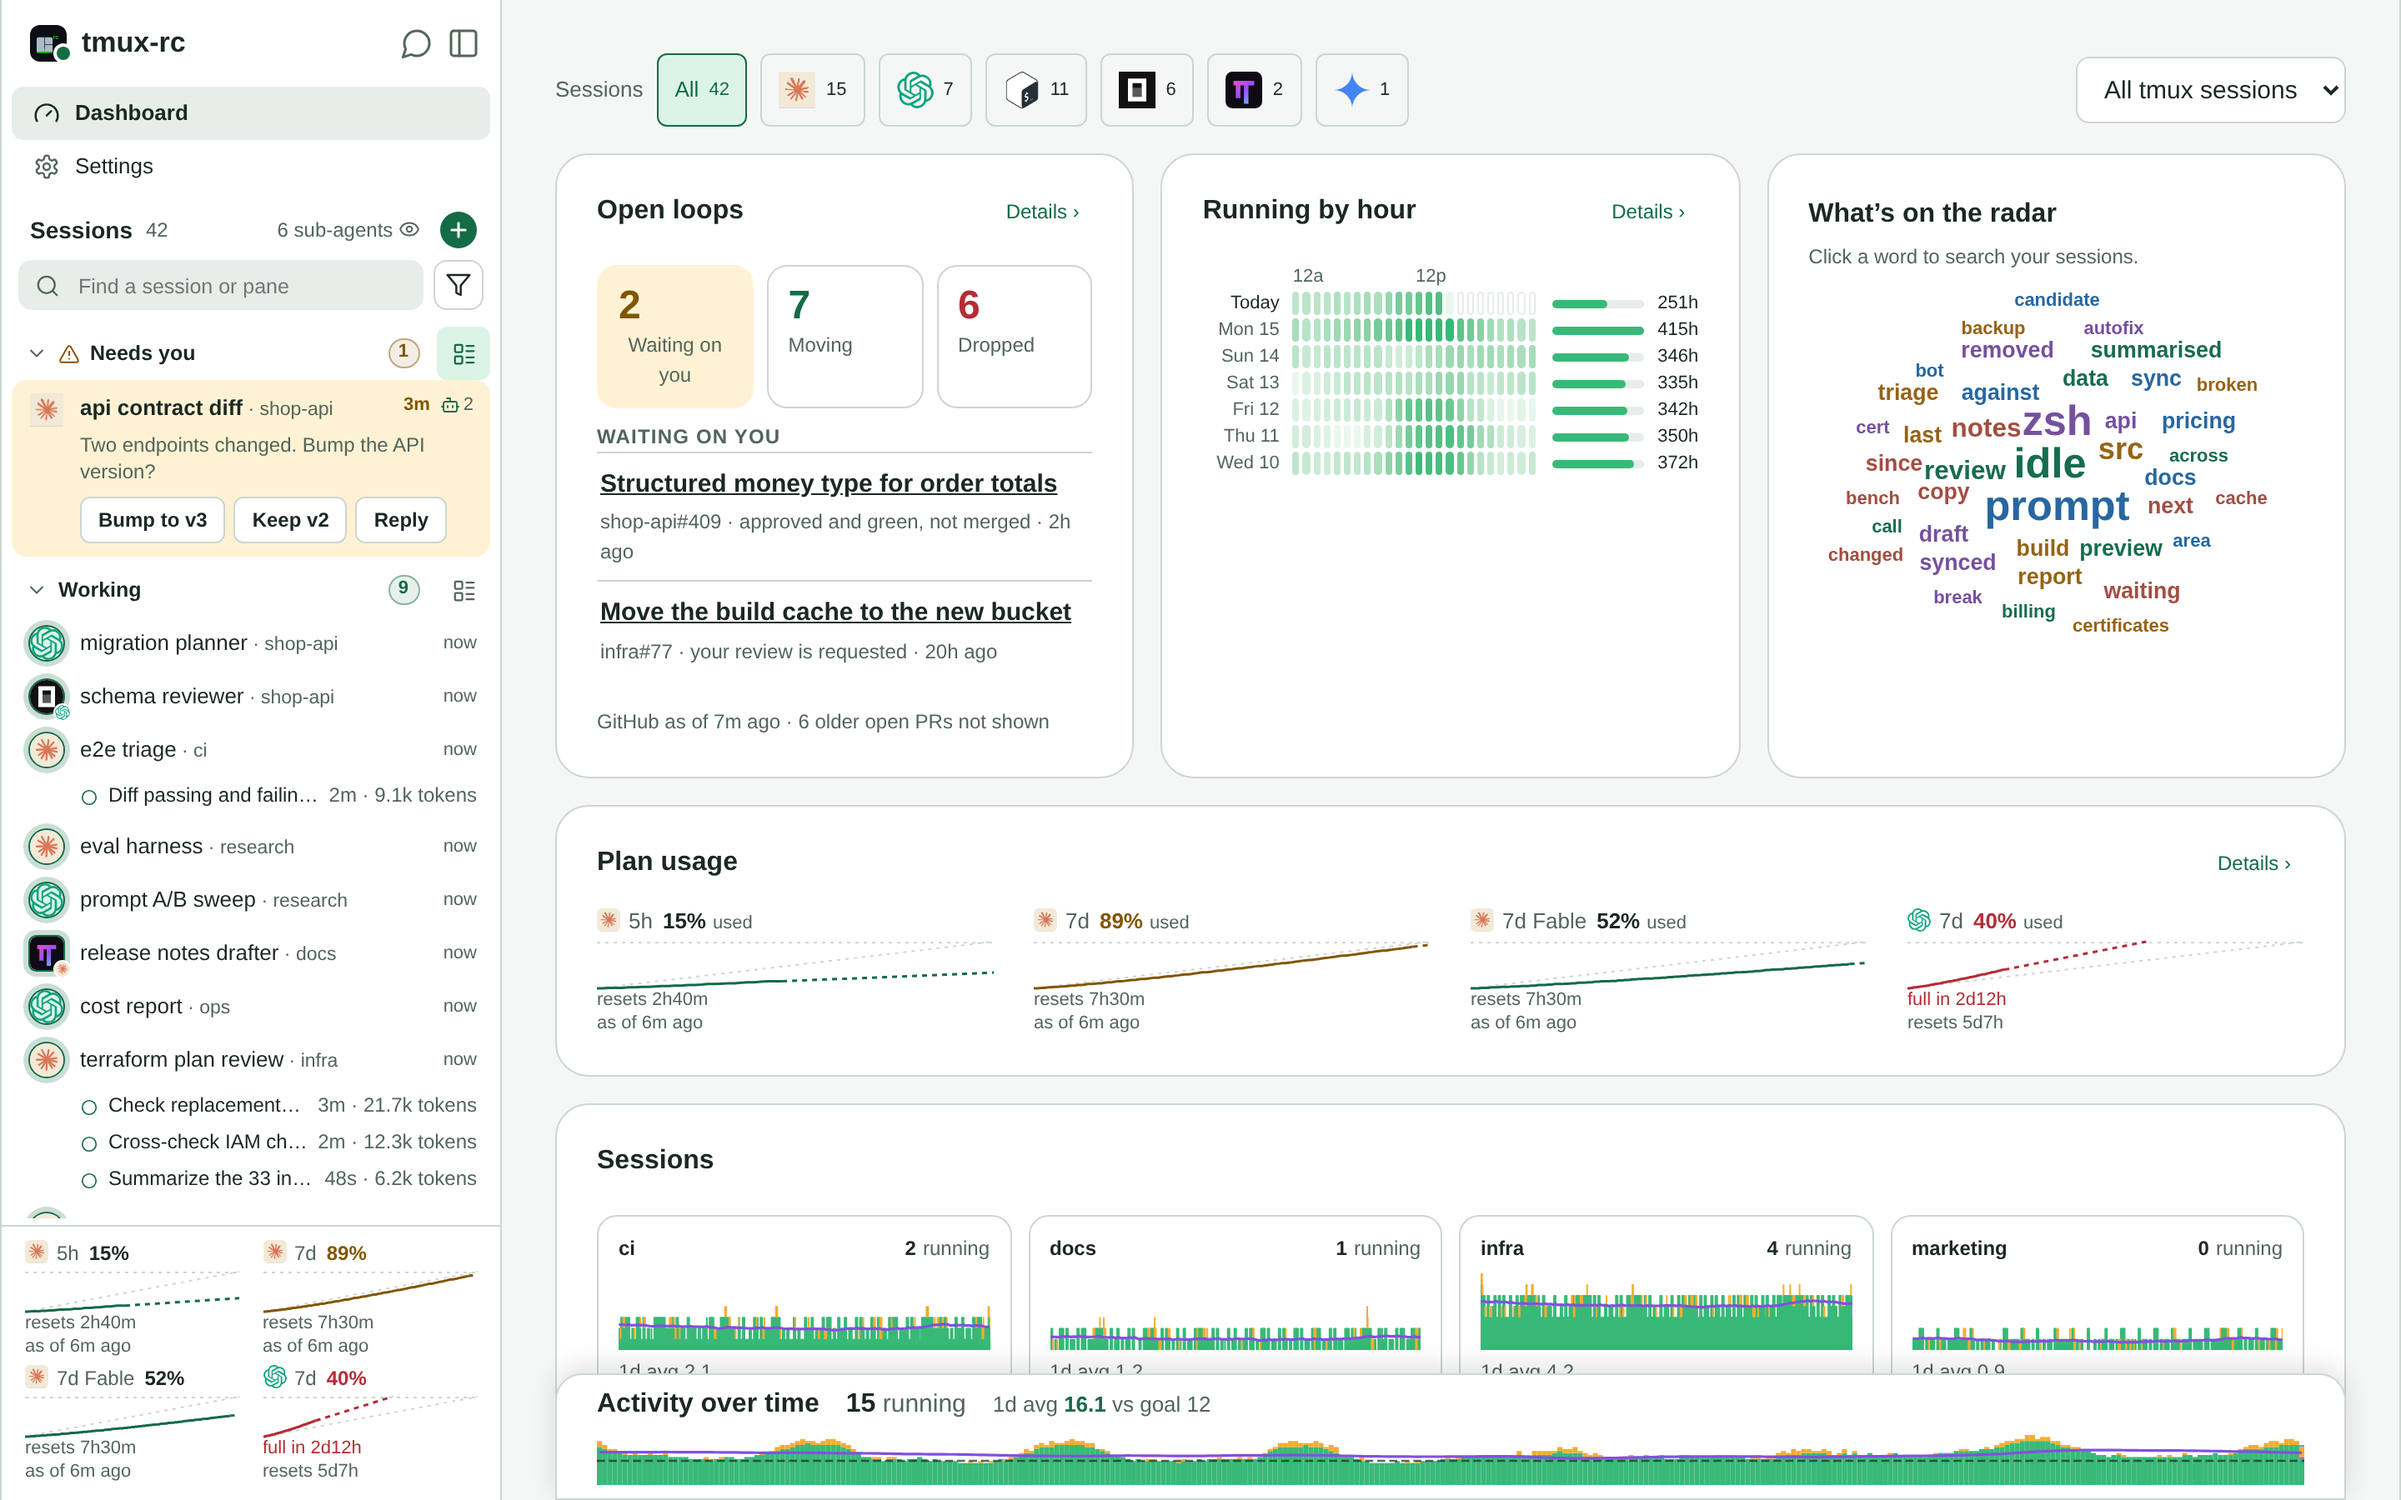
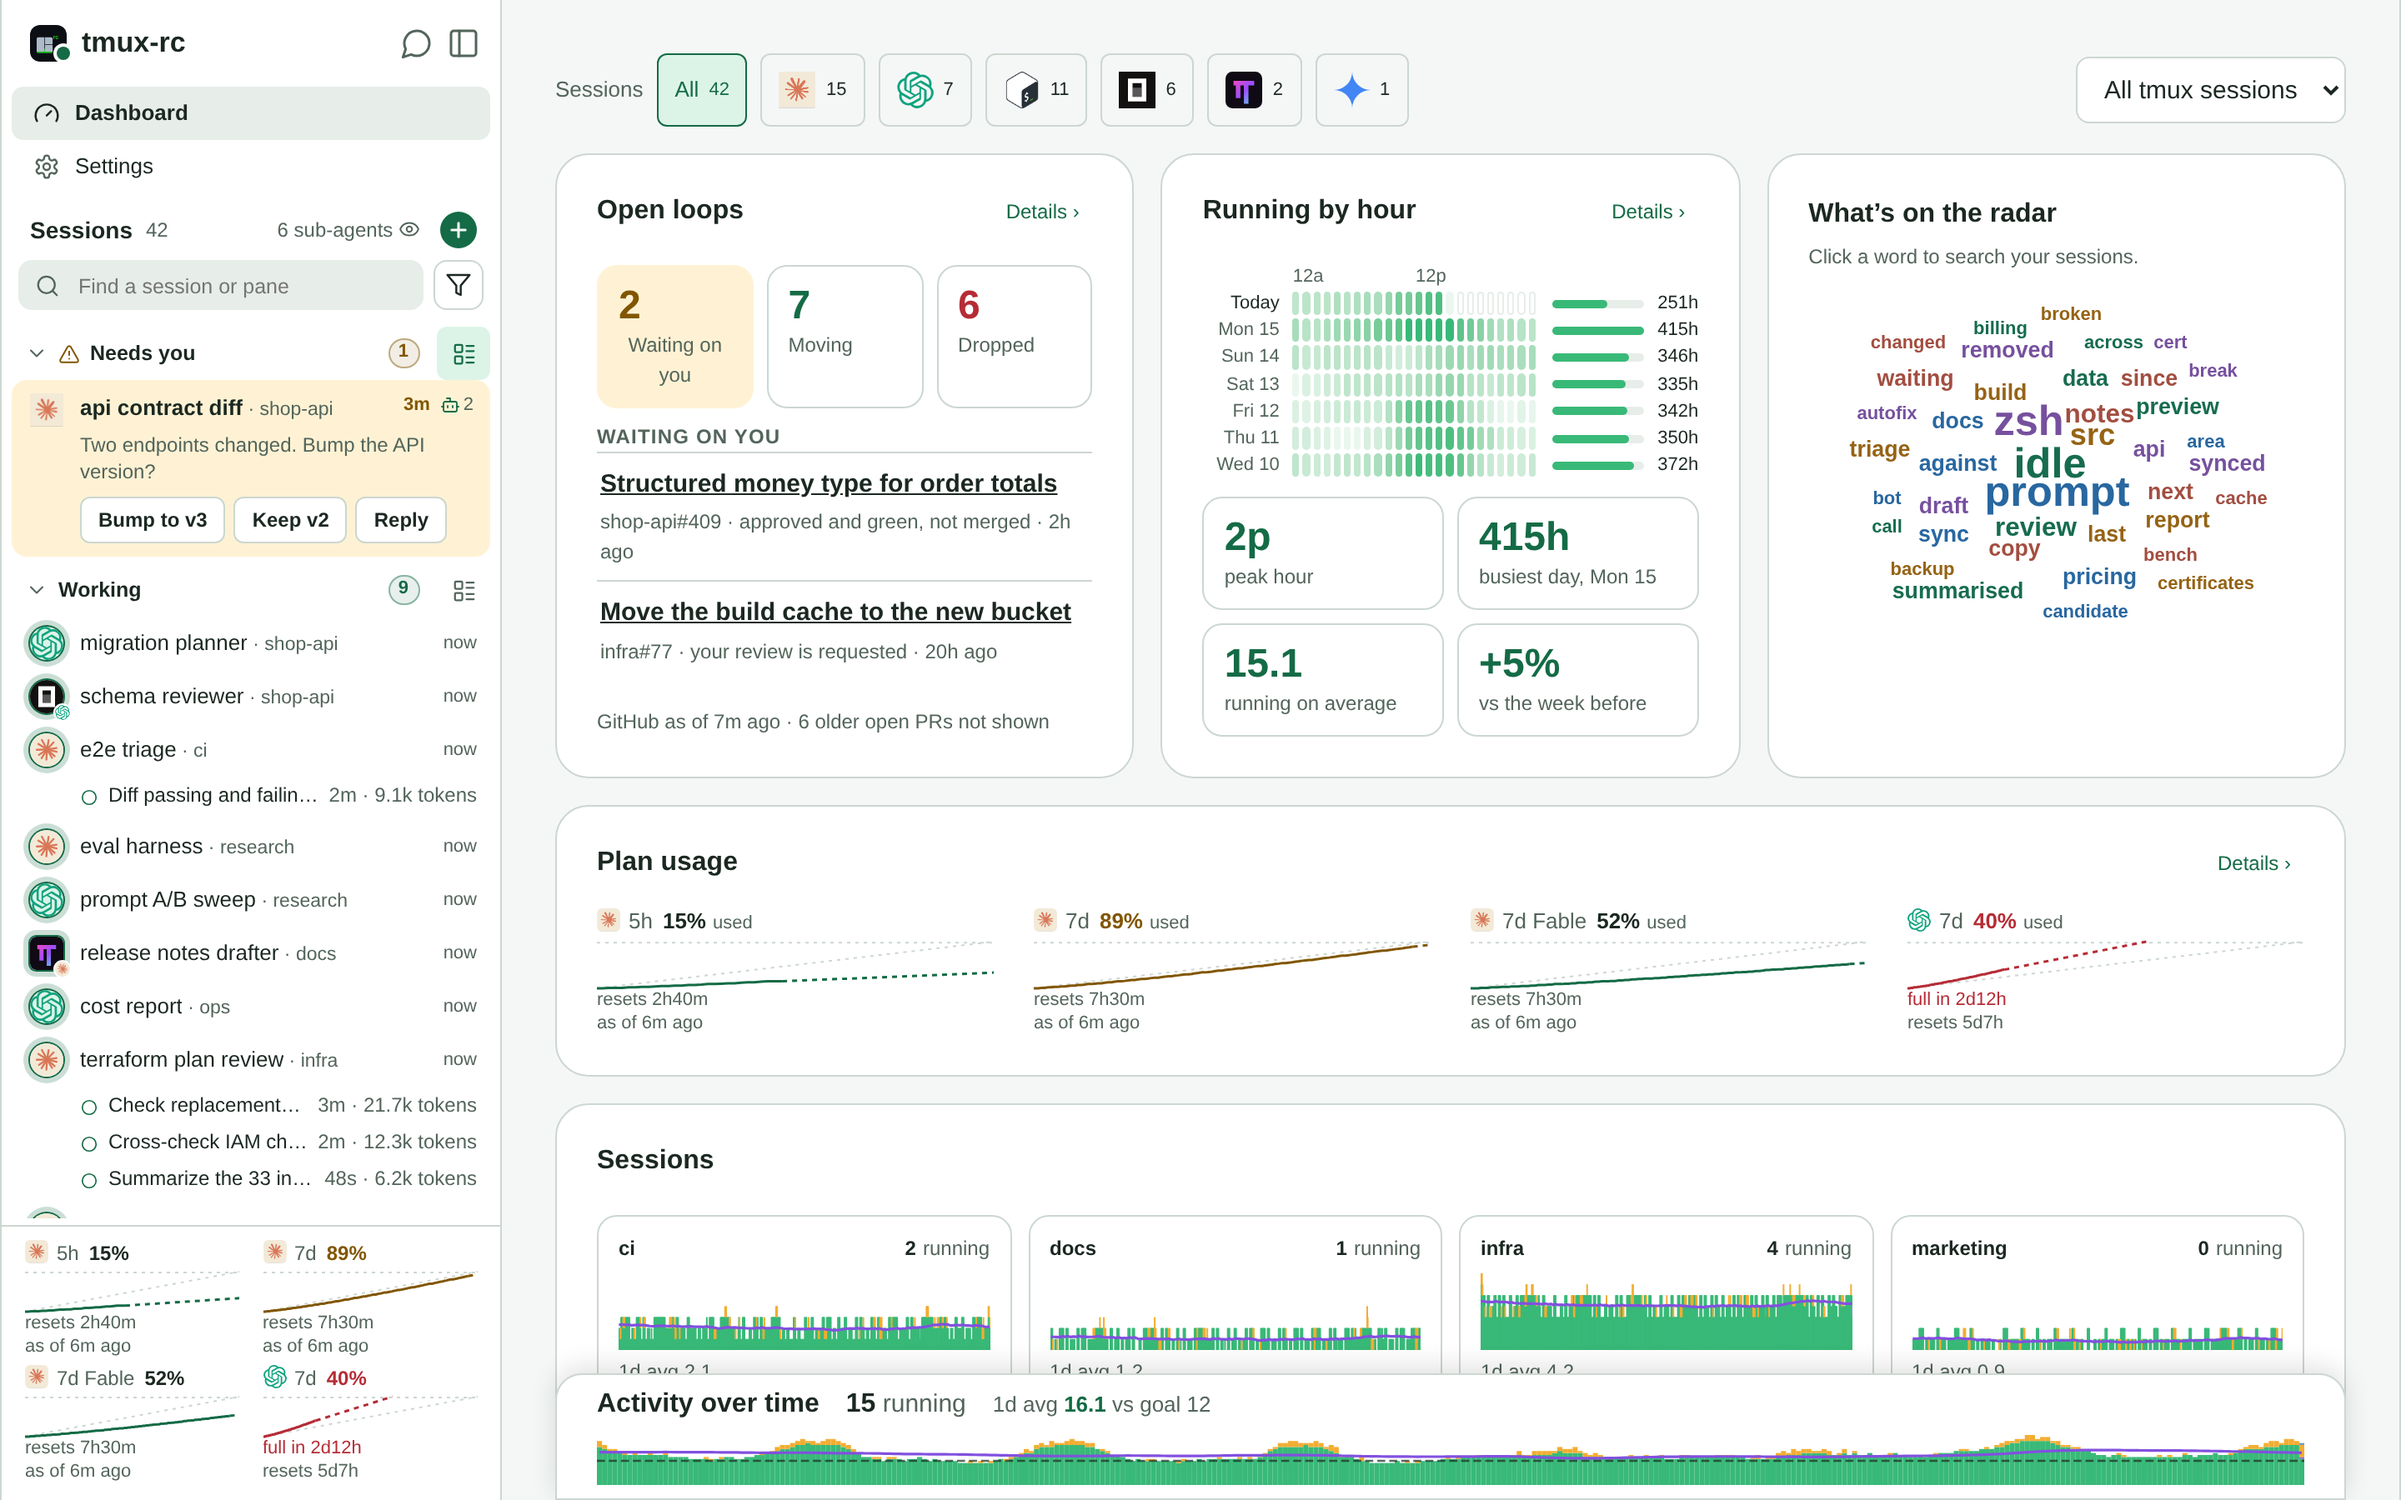
Running by hour fills its card, over four figures in the KPI tiles (#436)
* feat(dashboard): Running by hour fills its card, over four figures in the KPI tiles

The heatmap card sat half empty in a row as tall as Open loops. Its rows now grow into
the height the row leaves (contain: size, so they never set it), over four figures the
grid only implies: peak hour, busiest day, average running at any hour, and the last 7
full days against the 7 before. They use Open loops' tiles, renamed from .loop-count to
a shared .kpi, so the dashboard has one tile style; 2x2 in a narrow card, one row once
it is 600px wide.

* fix(dashboard): heat figures average over time recorded, compare only whole weeks, one-line labels

Address Copilot review: averages weigh part-recorded hours by the time seen; the week
comparison waits until history covers both weeks whole; heat tile labels truncate
instead of wrapping; screenshots select Open loops tiles by [data-lane], which the base
checkout also has.

* fix(dashboard): heat figures never read unrecorded time as idle, and show no hover-only detail

Address Copilot's second review: an hour never recorded cannot be the peak and nothing
recorded shows a dash; the week comparison is of average running over the time recorded
in each week, so gaps and a mid-week history start do not read as change; the tooltips,
unreachable by keyboard or touch, are gone.

* fix(dashboard): busiest day skips unrecorded days; the strip keeps four tiles, a dash until known

---------

diff --git a/web/m/atlas.js b/web/m/atlas.js
@@ -155,7 +155,8 @@ function refreshHeat() {
 }
 const pad = h => String(h).padStart(2, '0');
 const shade = (v, low, top) => v < 0.05 ? 'var(--raised)' : `color-mix(in oklab, var(--chart-s1) ${Math.round(12 + 88 * Math.max(0, Math.min(1, (v - low) / (top - low))))}%, var(--surface))`;
-const fig = (value, label) => { const node = el('span', 'heat-fig'); node.append(el('b', '', value), el('span', 'muted', label)); return node; };
+const fig = (value, label, cls = 'heat-fig') => { const node = el('span', cls); node.append(el('b', '', value), el('span', 'muted', label)); return node; };
+const hourName = h => `${h % 12 || 12}${h < 12 ? 'a' : 'p'}`;
 // The metric's population, as the activity chart's unit names it: every pane, shells too, plus agents.
 const heatUnit = () => fleet.metric === 'panes' ? 'pane-hours' : 'pane+agent hours';
 const heatWaiting = () => el('p', 'muted', heat === false ? 'History unavailable. Retrying automatically.' : 'Loading saved history…');
@@ -169,10 +170,11 @@ function heatDays(scope) {
     const t = new Date(s.t), day = new Date(s.t).setHours(0, 0, 0, 0), n = countsOf(s);
     if (!days.has(day)) days.set(day, []);
     if (!n) return;
-    const cell = days.get(day)[t.getHours()] ||= { sum: 0, tools: {} };
+    const cell = days.get(day)[t.getHours()] ||= { sum: 0, seen: 0, tools: {} };
     // Each bucket covers its step, the newest only to the query's now, the oldest only from the first record.
     const hours = Math.max(0, Math.min(s.t + heat.step, heat.now) - Math.max(s.t, heat.first)) / 3600000;
     cell.sum += running(n) * hours;
+    cell.seen += hours; // how much of the hour was recorded, for an average running in it
     (s.groups || []).forEach(g => { const c = countsOf(g); if (c) cell.tools[g.tool] = (cell.tools[g.tool] || 0) + running(c) * hours; });
   });
   // Until history runs out, the oldest day loaded may be cut by the chunk; it waits for the next.
@@ -196,7 +198,7 @@ function heatGrid(data, days, compact) {
   const grid = el('div', compact ? 'heat-grid heat-compact' : 'heat-grid');
   grid.setAttribute('role', compact ? 'img' : 'group');
   grid.setAttribute('aria-label', heatLabel(data, compact));
-  grid.append(el('span'), ...Array.from({ length: 24 }, (_, h) => el('span', 'heat-hour', h % (compact ? 12 : 6) ? '' : `${h % 12 || 12}${h < 12 ? 'a' : 'p'}`)),
+  grid.append(el('span'), ...Array.from({ length: 24 }, (_, h) => el('span', 'heat-hour', h % (compact ? 12 : 6) ? '' : hourName(h))),
     el('span', 'heat-hour heat-total', compact ? '' : 'Hours'));
   heatRows(grid, data, 0, days);
   return grid;
@@ -244,11 +246,35 @@ export function pageHead(title, icon, back) {
   return head;
 }
 
-// The Dashboard's heatmap card: the last week, compact.
+// The Dashboard's heatmap card: the last week, compact, its rows growing into the height the
+// cards beside it give the row, over the figures the grid only implies, in Open loops' tiles.
 function heatCard(scope, open) {
   const card = detailCard(el('section', 'atlas-heat-card'), 'Running by hour', `last 7 days · ${heatUnit()}`, open);
-  card.append(heat ? heatGrid(heatDays(scope), 7, true) : heatWaiting());
+  if (!heat) return card.append(heatWaiting()), card;
+  // Labels short enough for one line in a tile, so the tiles never set the row's height.
+  const data = heatDays(scope), w = heatWeek(data), figs = el('div', 'kpis heat-kpis'), kpi = (value, label) => figs.append(fig(value, label, 'kpi'));
+  const pct = w.change === null ? null : Math.round(w.change * 100);
+  kpi(w.peak < 0 ? '–' : hourName(w.peak), 'peak hour');
+  kpi(w.busy < 0 ? '–' : `${Math.round(data.totals[w.busy])}h`, `busiest day${w.busy < 0 ? '' : `, ${dayName(data.all[w.busy][0])}`}`);
+  kpi(w.avg === null ? '–' : w.avg.toFixed(1), 'running on average');
+  kpi(pct === null ? '–' : `${pct > 0 ? '+' : ''}${pct}%`, 'vs the week before');
+  card.append(heatGrid(data, 7, true), figs);
   return card;
+}
+// The card's figures, over the last 7 days (today too): the hour of day with the most running
+// on average, the busiest day (its index; each -1 if none was recorded), the average running
+// in any hour, and the change in average running over the 7 full days before today against
+// the 7 before those (null until both hold a recording). Each average is over the time
+// recorded (null if none), so gaps, part-recorded hours and history starting mid-week weigh
+// only what was seen, never as idle.
+export function heatWeek({ all, totals }) {
+  const add = v => v.reduce((a, b) => a + b, 0), seen = (days, h) => days.flatMap(c => (h === undefined ? c : [c[h]]).filter(Boolean));
+  const avg = cells => { const t = add(cells.map(c => c.seen)); return t ? add(cells.map(c => c.sum)) / t : null; };
+  const days = all.map(([, cells]) => cells), week = days.slice(0, 7), seven = totals.slice(0, 7), full = all[0]?.[0] === today() ? 1 : 0;
+  const best = (vals, ok) => vals.reduce((b, v, i) => ok(i) && (b < 0 || v > vals[b]) ? i : b, -1); // the largest of those ok, or -1
+  const hours = Array.from({ length: 24 }, (_, h) => avg(seen(week, h))), peak = best(hours, h => hours[h] !== null);
+  const now = avg(seen(days.slice(full, full + 7))), before = avg(seen(days.slice(full + 7, full + 14)));
+  return { peak, busy: best(seven, i => seen([week[i]]).length > 0), avg: avg(seen(week)), change: now === null || !before ? null : now / before - 1 };
 }
 
 function heatFigs({ all, totals, most }) {

diff --git a/web/m/style.css b/web/m/style.css
@@ -677,13 +677,14 @@ dialog.beside .dialog-heading { min-height: var(--bar); }
 .loop-orphan { font-size: 12px; color: var(--amber); }
 .loop-notes { margin-top: 16px; }
 /* The Open loops card: a tile per lane (each opens the page at its lane), then the top rows. */
-.loop-counts { display: grid; grid-template-columns: repeat(3, minmax(0, 1fr)); gap: 8px; margin-bottom: 8px; }
-.loop-count { display: flex; flex-direction: column; align-items: flex-start; padding: 10px 12px; border: 1px solid var(--line); border-radius: 12px; color: var(--c); }
-.loop-count b { font-size: 24px; line-height: 1.15; font-variant-numeric: tabular-nums; }
-.loop-count span { font-size: 12px; color: var(--muted); }
-.loop-count.waiting { --c: var(--amber); background: var(--amber-bg); border-color: transparent; }
-.loop-count.moving { --c: var(--accent); }
-.loop-count.dropped { --c: var(--red); }
+/* The dashboard's KPI tiles: a big coloured number over its label (Open loops, Running by hour). */
+.kpis { display: grid; grid-template-columns: repeat(3, minmax(0, 1fr)); gap: 8px; margin-bottom: 8px; }
+.kpi { display: flex; flex-direction: column; align-items: flex-start; padding: 10px 12px; border: 1px solid var(--line); border-radius: 12px; color: var(--c); }
+.kpi b { font-size: 24px; line-height: 1.15; font-variant-numeric: tabular-nums; }
+.kpi span { font-size: 12px; color: var(--muted); }
+.kpi.waiting { --c: var(--amber); background: var(--amber-bg); border-color: transparent; }
+.kpi.moving { --c: var(--accent); }
+.kpi.dropped { --c: var(--red); }
 #loops-card h4 { margin: 8px 0 0; font-size: 12px; text-transform: uppercase; letter-spacing: .05em; color: var(--muted); }
 #loops-card .loop-row:first-of-type { border-top: 0; }
 #loops-card .loop-row a { white-space: nowrap; overflow: hidden; text-overflow: ellipsis; }
@@ -1030,6 +1031,14 @@ label:has([value="auto"]) > .thumb { border-style: dashed; }
 .heat-total { display: grid; grid-template-columns: 1fr auto; align-items: center; gap: 0 8px; padding-left: 8px; --u: var(--chart-s1); }
 .heat-total .usage-bar { margin: 0; grid-column: auto; }
 .heat-total b { min-width: 4ch; text-align: right; font-weight: normal; } /* regular: bold glyphs in this grid rasterised differently run to run */
+/* The card's grid takes the height its row leaves (contain: size, so it never sets the row),
+   its rows sharing it, over the figures: 2×2, or one row once the card is wide. */
+.atlas-heat-card { display: flex; flex-direction: column; container-type: inline-size; }
+.atlas-heat-card > .heat-grid { flex: 1 1 auto; contain: size; min-height: calc(14px + 7 * (var(--rh) + 2px)); grid-template-rows: 14px; grid-auto-rows: minmax(0, 1fr); }
+.atlas-heat-card .heat-cell { height: auto; align-self: stretch; }
+.heat-kpis { --c: var(--accent); grid-template-columns: repeat(2, minmax(0, 1fr)); margin: 12px 0 0; }
+.heat-kpis .kpi span { max-width: 100%; overflow: hidden; text-overflow: ellipsis; white-space: nowrap; }
+@container (min-width: 600px) { .heat-kpis { grid-template-columns: repeat(4, minmax(0, 1fr)); } }
 .atlas-detail-card { cursor: pointer; }
 .atlas-detail-card:hover { border-color: var(--muted); }
 .heat-foot { margin: 12px 0 0; font-size: 12px; text-align: center; }

diff --git a/web/m/loops.js b/web/m/loops.js
@@ -79,7 +79,7 @@ export function renderLoopsCard(card, report, openLane, licon, now = Date.now())
   card.hidden = !lanes;
   if (!lanes) return;
   const top = groups(lanes, "waiting").flatMap(g => g.items).sort((a, b) => (b.at || 0) - (a.at || 0)).slice(0, 3);
-  paint(card.querySelector(".loop-card-body"), `<div class="loop-counts">${Object.entries(LANES).map(([lane, title]) => `<button type="button" class="loop-count ${lane}" data-lane="${lane}" data-key="count ${lane}">`
+  paint(card.querySelector(".loop-card-body"), `<div class="kpis">${Object.entries(LANES).map(([lane, title]) => `<button type="button" class="kpi ${lane}" data-lane="${lane}" data-key="count ${lane}">`
       + `<b>${count(groups(lanes, lane))}</b><span>${title}</span></button>`).join("")}</div>`
     + (top.length ? `<h4>Waiting on you</h4>${top.map(i => row(i, licon, now, "top")).join("")}` : "")
     + `<p class="m loop-notes">${esc(notes(report, now))}</p>`, // stale, failed or cut short shows here

diff --git a/docs/design/dashboard-layout.md b/docs/design/dashboard-layout.md
@@ -18,6 +18,18 @@ the page).
   and the top item waiting on you; Running by hour shows the heatmap. Details › opens the
   full queue or the full heatmap as a page of its own. A dashboard is for noticing; the
   long lists it used to inline belong one tap away, where they can be read properly.
+- **Running by hour fills its card.** The top row is as tall as its tallest card (usually
+  Open loops), so a fixed-height week of rows left the heatmap card half empty. The rows now
+  grow into whatever height the row leaves, without ever setting it, and four figures sit
+  under them that the grid only implies: the peak hour, the busiest day, the average running
+  at any hour, and the change in average running over the last 7 full days against the 7
+  before (the only week-over-week number on the dashboard). Every figure averages over the
+  time actually recorded, so a sleeping laptop or history that starts mid-week reads as
+  missing, not as idle. They use Open loops' own KPI tiles, one style for every figure on
+  the page, with one-line labels so a tile never makes the row taller; the detail behind a
+  figure is in the full heatmap, not in a hover-only tooltip a phone cannot reach. Chosen over showing more weeks (denser rows whose count changes with
+  the window), an hour-of-day profile (a second chart form in one card) and a full-width
+  strip (a taller page), from the "use the space" mock.
 - **One card per session** (from option C), with its 7-day trend, its pane icons and an
   "N need you" note. It replaces both the atlas and Running by session, which drew the same
   sessions twice in two shapes.
